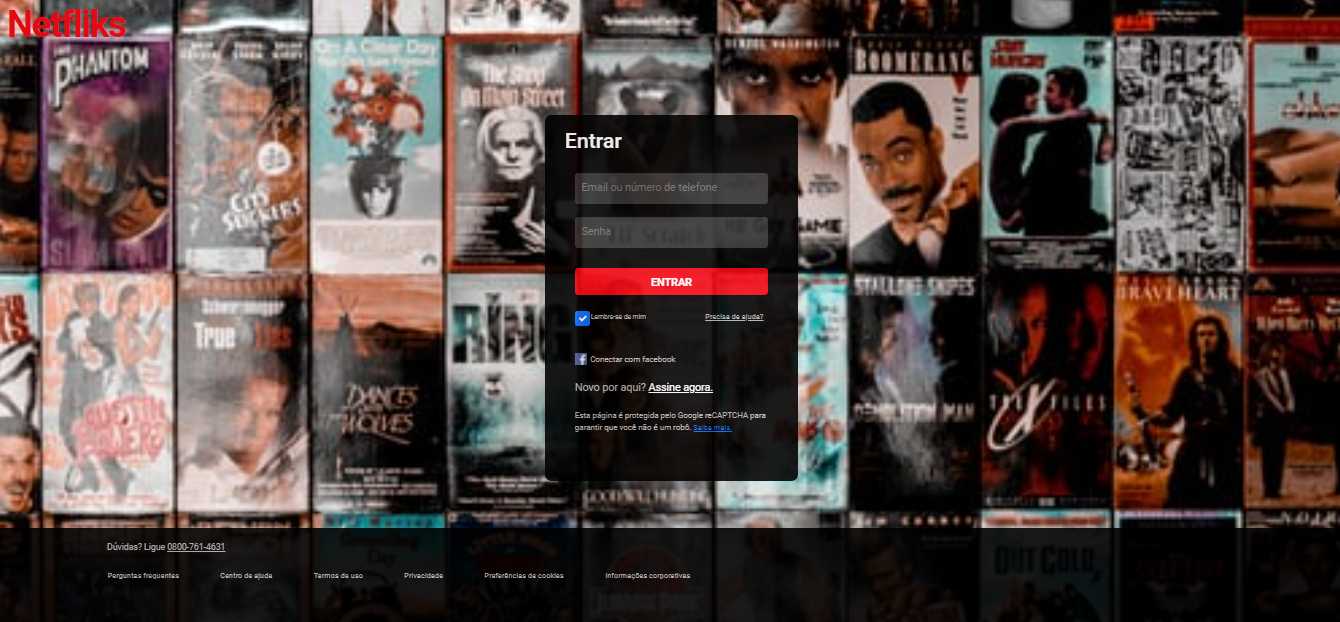
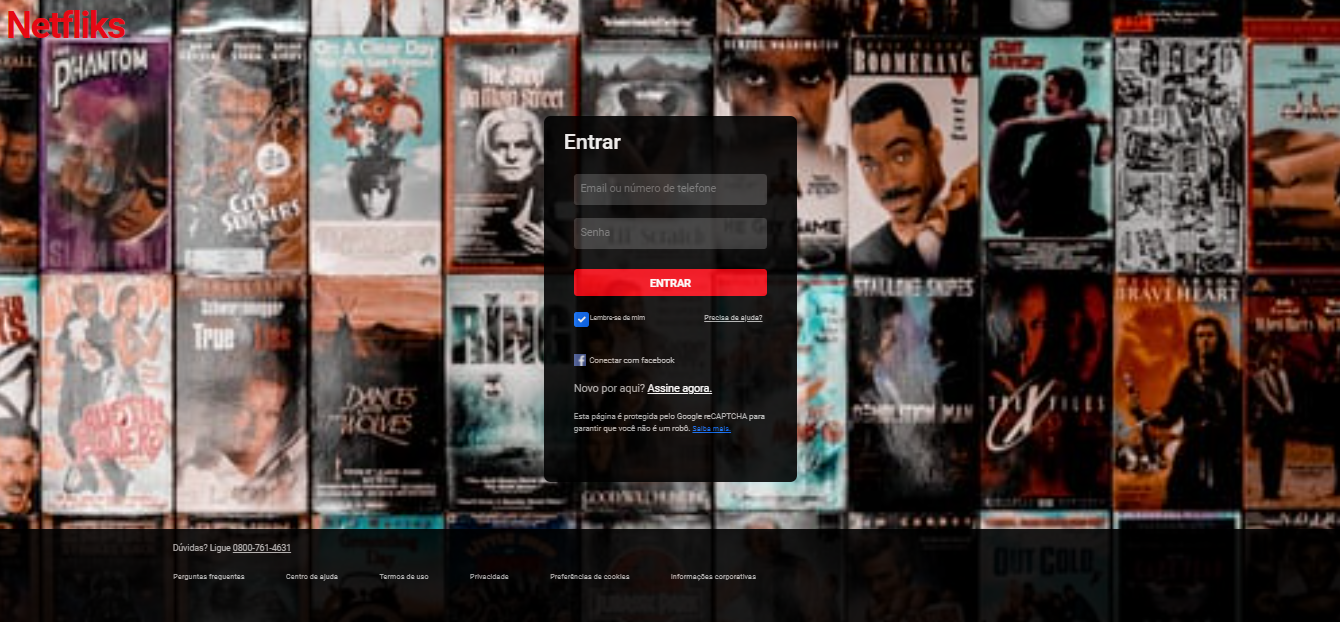
commit

diff --git a/css/style.css b/css/style.css
@@ -168,7 +168,7 @@ button {
 .duvida {
     font-size: var(--fs-13);
     color: var(--main-greylight-color);
-    margin-left: 165px; 
+    margin-left: 265px; 
     margin-top: 20px;         
 }
 
@@ -181,11 +181,12 @@ button {
     color: var(--main-greylight-color);
     margin-right: 30px;   
 }
+
 .nav-link:hover {
     color: var(--main-white-color);
 }
 
 .nav-item-perguntas {    
-    margin-left: 150px;
+    margin-left: 250px;
 }
 
